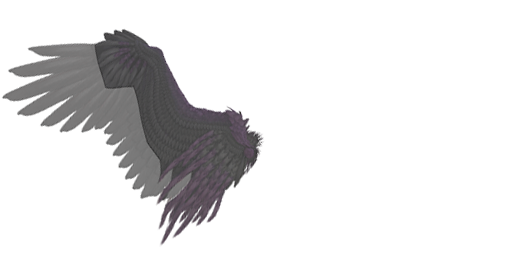
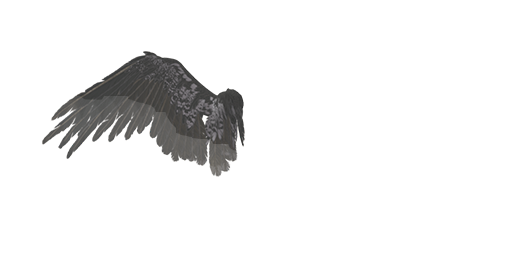
update shadow wings

Changed region(s): [[0.0, 0.0938, 0.5312, 0.9688]]

diff --git a/src/game/client/components/players.cpp b/src/game/client/components/players.cpp
@@ -614,7 +614,7 @@ void CPlayers::OnInit()
 	m_aEquipInfo.add({ itMagitechRifle, vec4(0.3f, 0.5f, 0.5f, 0.003f), vec2(0,0), vec2(0, 0), 0.0f, SPRITE_MMO_RIFLE_MAGITECH, 0 });
 		
 	/* WINGS */
-	m_aEquipInfo.add({ itShadowWings, vec4(1.75f, 0.0f, 0.0f, 0.003f), vec2(115, 55), vec2(200, 90), 0.0f, IMAGE_SHADOW_WINGS, ANIM_WINGS_LENGTH });
+	m_aEquipInfo.add({ itShadowWings, vec4(1.75f, 0.0f, 0.0f, 0.003f), vec2(115, 60), vec2(200, 120), 0.0f, IMAGE_SHADOW_WINGS, ANIM_WINGS_LENGTH });
 	m_aEquipInfo.add({ itNeptuneWings, vec4(0.2f, 0.2f, 1.75f, 0.003f), vec2(120, 50), vec2(200, 100), 0.0f, IMAGE_NEPTUNE_WINGS, ANIM_WINGS_LENGTH });
 	m_aEquipInfo.add({ itAngelWings,  vec4(0.2f, 0.2f, 1.75f, 0.003f), vec2(115, 64), vec2(200, 100), 0.0f, IMAGE_ANGEL_WINGS, ANIM_WINGS_LENGTH });
 	m_aEquipInfo.add({ itHeavenlyWings, vec4(1.0f, 0.85f, 0.0f, 0.003f), vec2(170, 100), vec2(280, 150), 0.0f, IMAGE_HEAVENLY_WINGS, ANIM_WINGS_LENGTH });
